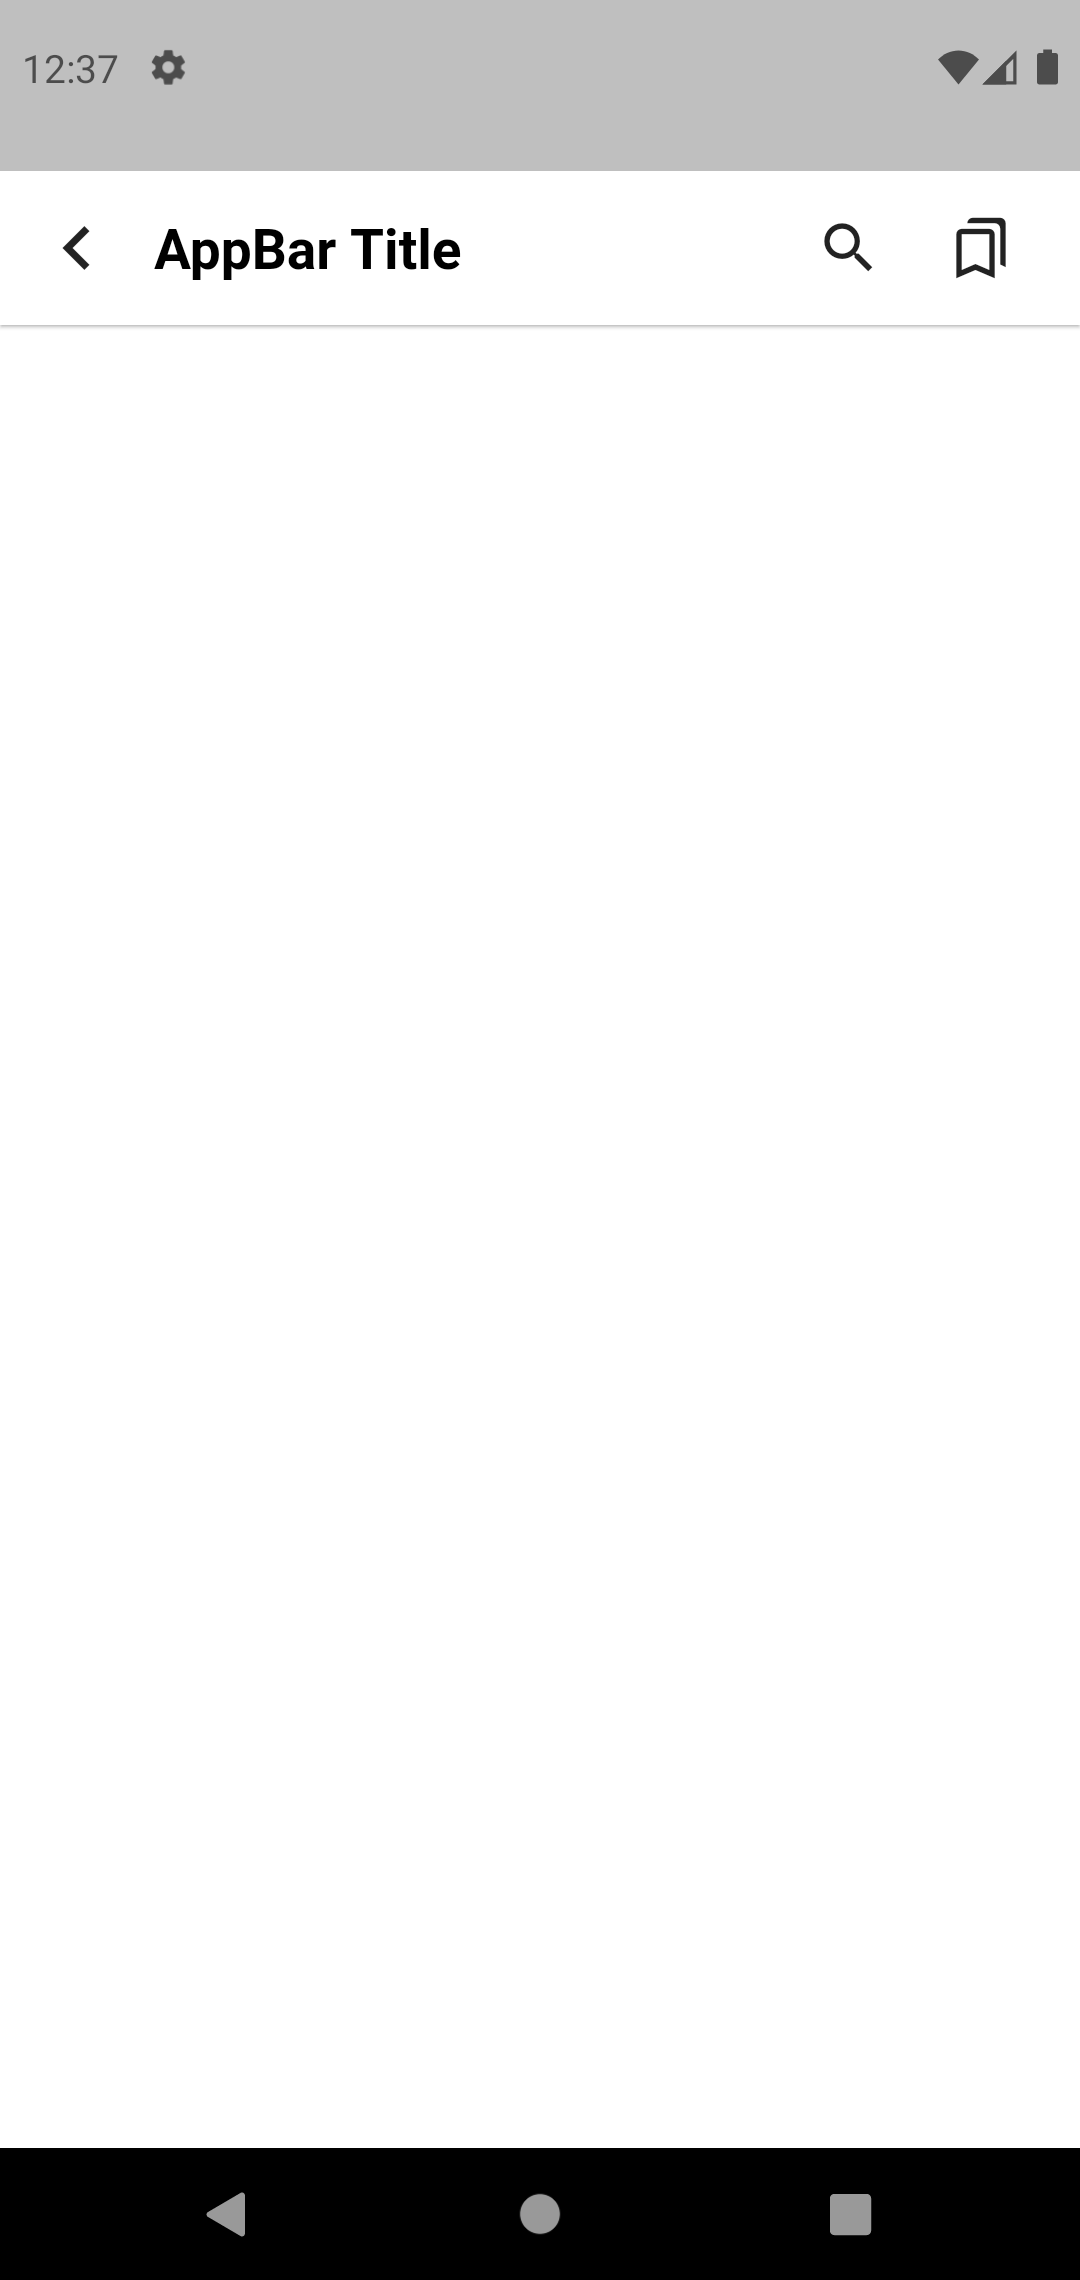
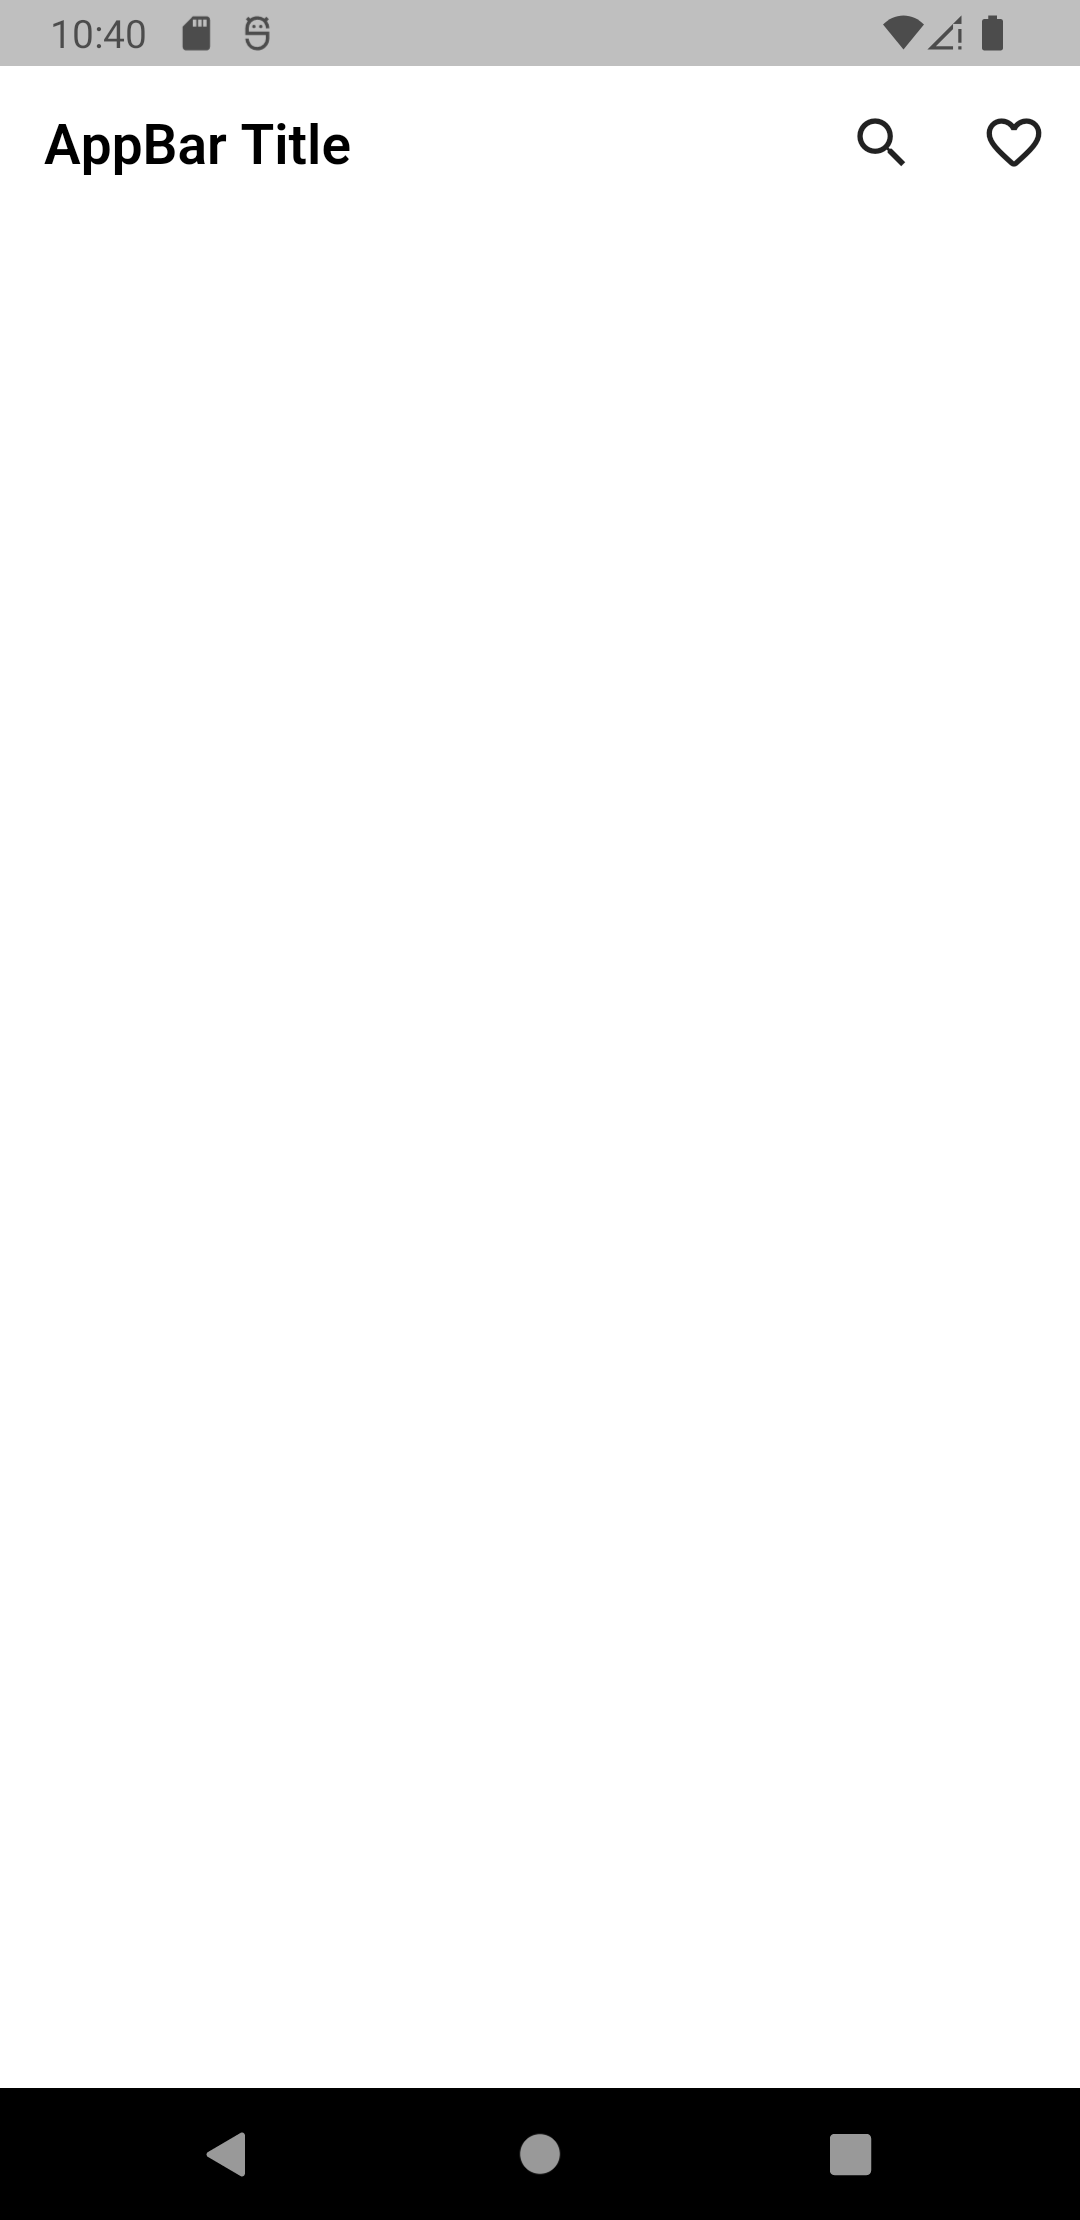
up

Changed region(s): [[0.0, 0.0, 1.0, 0.1243]]

diff --git a/lib/docs/app_bar/AppBarNormal.dart b/lib/docs/app_bar/AppBarNormal.dart
@@ -4,38 +4,23 @@ PreferredSizeWidget AppBarNormal() {
   return AppBar(
     iconTheme: IconThemeData(color: Colors.black87),
     backgroundColor: Colors.white,
-    elevation: 1,
-    titleSpacing: 0,
-    automaticallyImplyLeading: false,
-    leading: IconButton(
-      onPressed: () {
-        // Navigator.pop(context);
-      },
-      icon: Icon(
-        Icons.chevron_left,
-        size: 32,
-      ),
-    ),
+    elevation: 0,
     title: Text(
       'AppBar Title',
       style: TextStyle(
-        fontWeight: FontWeight.w700,
+        fontWeight: FontWeight.w600,
         color: Colors.black,
       ),
     ),
     actions: [
       IconButton(
-          padding: EdgeInsets.zero,
-          constraints: BoxConstraints(),
-          onPressed: () {},
-          icon: Icon(Icons.search)),
-      SizedBox(width: 24),
+        onPressed: () {},
+        icon: Icon(Icons.search),
+      ),
       IconButton(
-          padding: EdgeInsets.zero,
-          constraints: BoxConstraints(),
-          onPressed: () {},
-          icon: Icon(Icons.bookmarks_outlined)),
-      SizedBox(width: 24),
+        onPressed: () {},
+        icon: Icon(Icons.favorite_border_rounded),
+      ),
     ],
   );
 }

diff --git a/lib/test_screen.dart b/lib/test_screen.dart
@@ -15,6 +15,7 @@ import 'package:my_documentation/docs/carousel/CarouselCommon.dart';
 import 'package:my_documentation/docs/comment/CommentCommon.dart';
 import 'package:my_documentation/docs/details/DetailCommon.dart';
 import 'package:my_documentation/docs/divider/DividerDot.dart';
+import 'package:my_documentation/docs/grid_view/StaggeredGridViewCommon.dart';
 import 'package:my_documentation/docs/horizontal_list/HorizontalListCard.dart';
 import 'package:my_documentation/docs/image/ImageCircle.dart';
 import 'package:my_documentation/docs/loading/LoadingShimmers.dart';
@@ -38,7 +39,7 @@ class TestScreen extends StatelessWidget {
   Widget build(BuildContext context) {
     return Scaffold(
       backgroundColor: Colors.white,
-      // appBar: AppBarSearch(),
+      // appBar: AppBarNormal(),
       body: Column(
         mainAxisAlignment: MainAxisAlignment.center,
         children: [
@@ -47,6 +48,9 @@ class TestScreen extends StatelessWidget {
           ),
         ],
       ),
+      // body: StaggeredGridViewCommon(
+      //   child: CardCommon(),
+      // ),
     );
   }
 }
